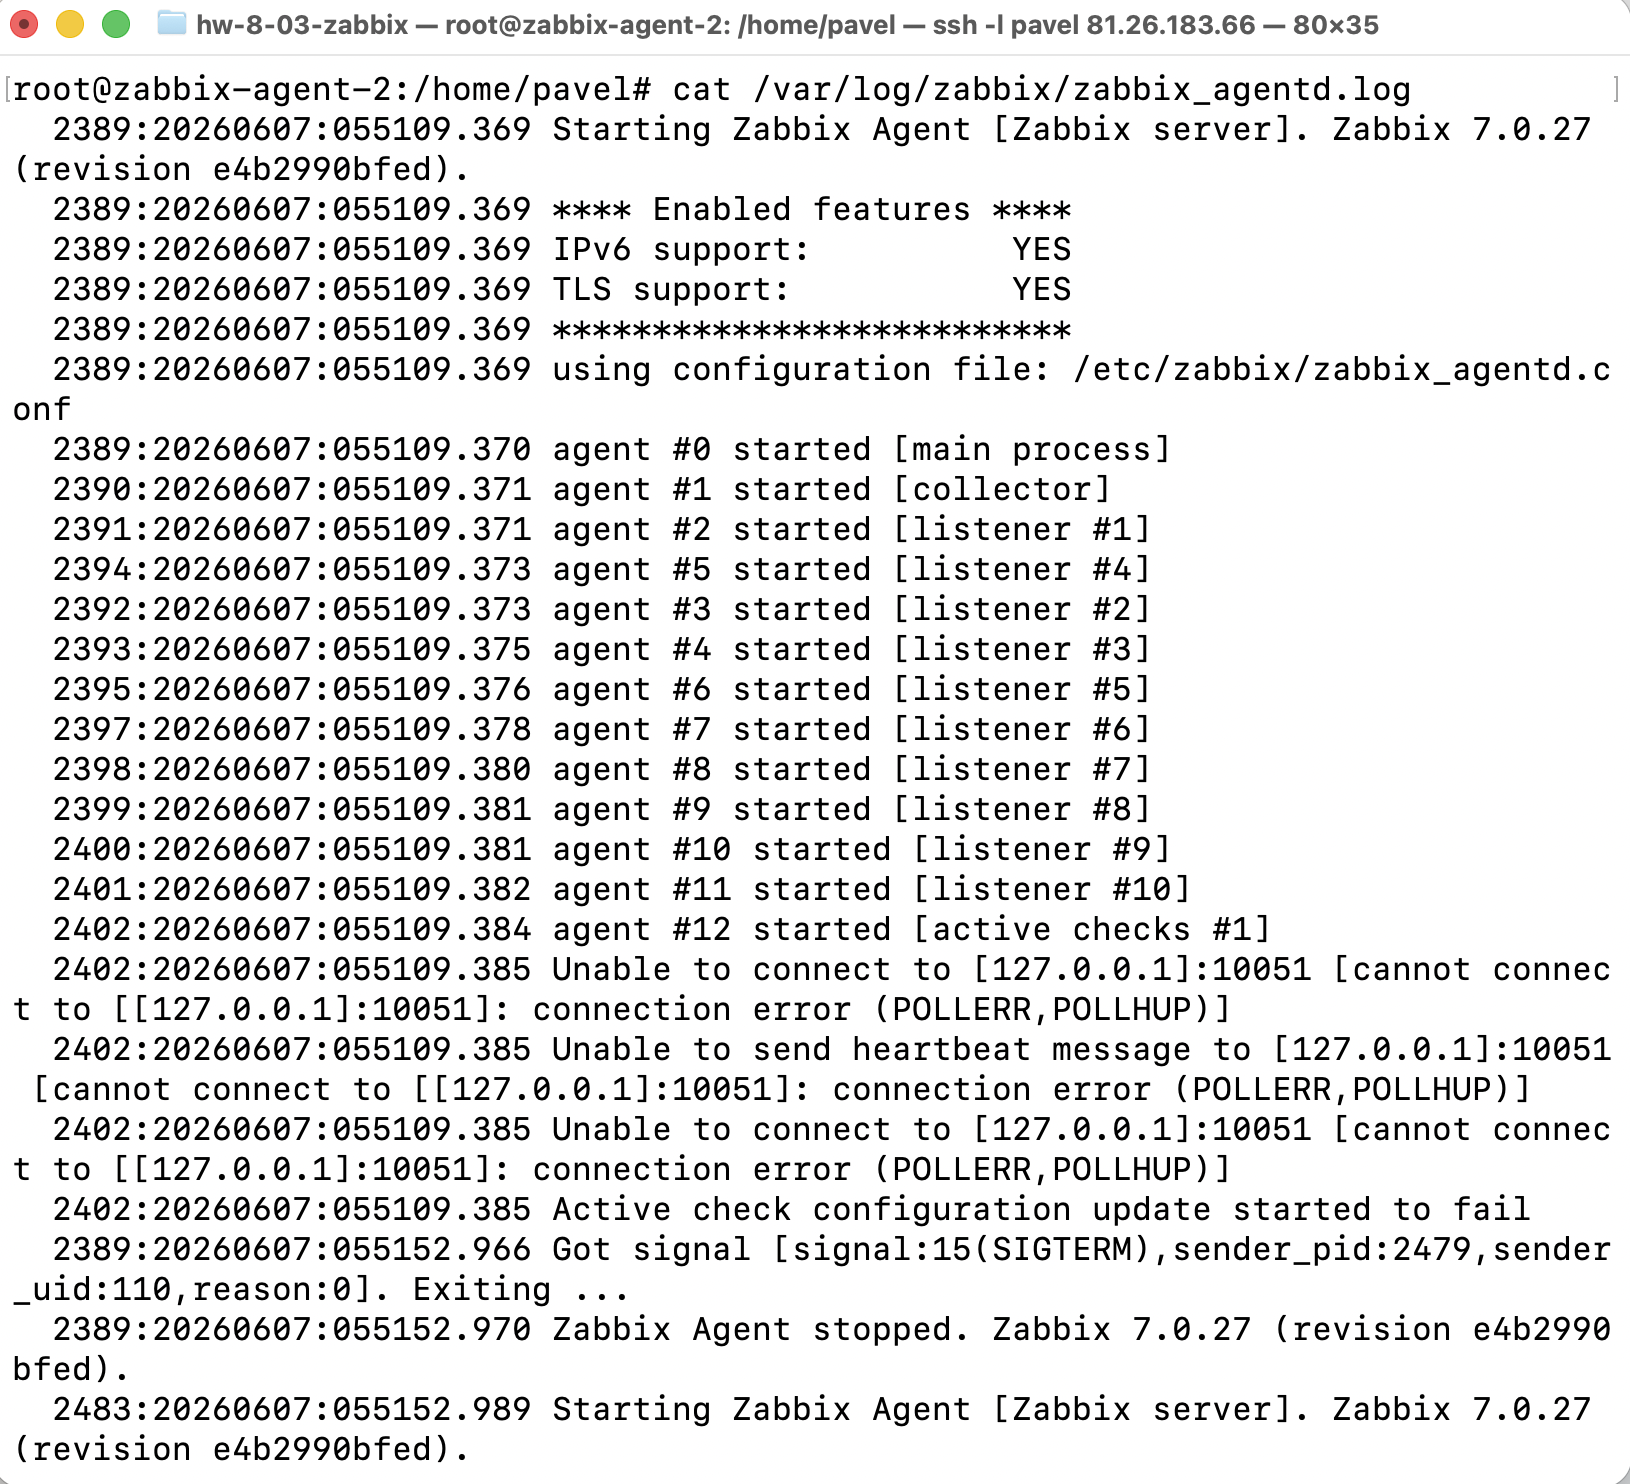
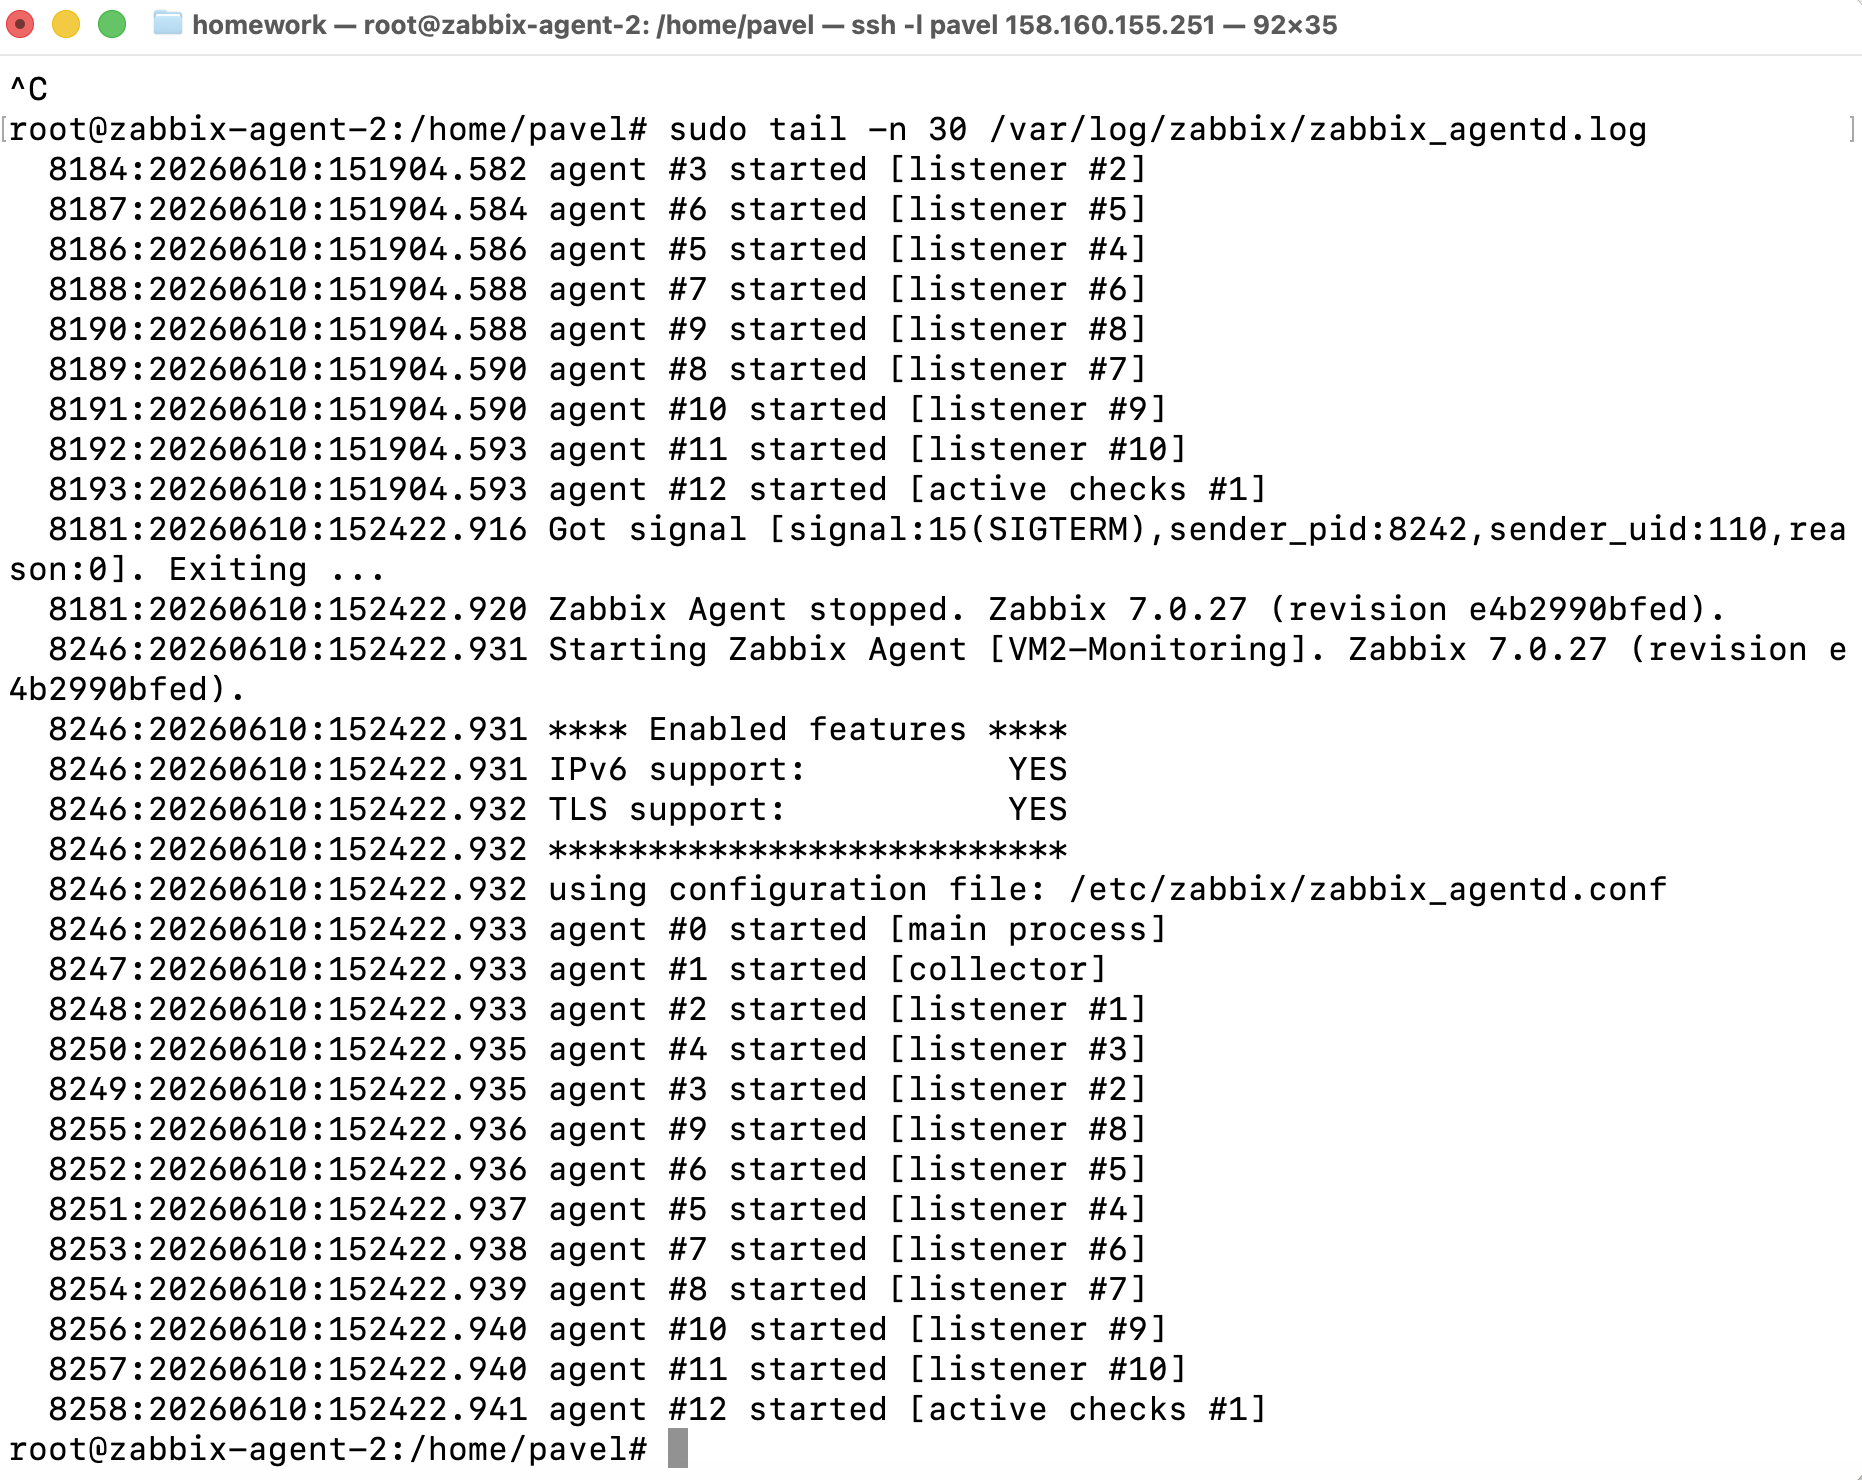
ДЗ-1 Zabbix Server + 2 Agent пофиксенный

diff --git a/hw-8-03-zabbix/README.md b/hw-8-03-zabbix/README.md
@@ -1,41 +1,53 @@
 # Домашнее задание "Система мониторинга Zabbix". Ярмощук Павел
-VM в Яндекс Облаке:
-- VM1 (Zabbix Server): Внешний IP = `81.26.184.94`, Внутренний = `10.130.0.10`
-- VM2 (Zabbix Agent): Внешний IP = `81.26.183.66`, Внутренний = `10.130.0.6`
 
-### Использованные команды (на VM1)
-sudo -s
-apt update && apt upgrade
+## Задание 1: Установите Zabbix Server с веб-интерфейсом.
+
+**Решение 1:**
+
+## Использованные команды (на VM1 - Zabbix Server, Zabbix Agent)
 apt install postgresql -y
-wget https://repo.zabbix.com/zabbix/7.0/debian/pool/main/z/zabbix-release/zabbix-release_7.0-1+debian11_all.deb
-dpkg -i zabbix-release_7.0-1+debian11_all.deb
-apt update
-apt install zabbix-server-pgsql zabbix-frontend-php php7.4-pgsql zabbix-apache-conf zabbix-sql-scripts zabbix-agent -y
-sudo -u postgres createuser zabbix
-sudo -u postgres createdb -O zabbix zabbix
-zcat /usr/share/zabbix-sql-scripts/postgresql/server.sql.gz | sudo -u zabbix psql zabbix
-systemctl restart zabbix-server zabbix-agent apache2 php7.4-fpm
-systemctl enable zabbix-server zabbix-agent apache2 php7.4-fpm
 
-### Использованные команды (на VM2)
 sudo -s
-apt update && apt upgrade
-wget https://repo.zabbix.com/zabbix/7.0/debian/pool/main/z/zabbix-release/zabbix-release_7.0-1+debian11_all.deb
-dpkg -i zabbix-release_7.0-1+debian11_all.deb
+
+wget https://repo.zabbix.com/zabbix/7.0/ubuntu/pool/main/z/zabbix-release/zabbix-release_latest_7.0+ubuntu24.04_all.deb
+dpkg -i zabbix-release_latest_7.0+ubuntu24.04_all.deb
 apt update
+
+apt install zabbix-server-pgsql zabbix-frontend-php php8.3-pgsql zabbix-apache-conf zabbix-sql-scripts zabbix-agent
+
+sudo -u postgres createuser --pwprompt zabbix
+sudo -u postgres createdb -O zabbix zabbix
+
+zcat /usr/share/zabbix-sql-scripts/postgresql/server.sql.gz | sudo -u zabbix psql zabbix
+
+systemctl restart zabbix-server zabbix-agent apache2
+systemctl enable zabbix-server zabbix-agent apache2
+
+### Скрины к заданию 1
+![авторизация](img/снимок-1.png)
+
+## Задание 2: Установите Zabbix Agent на два хоста.
+
+**Решение 2:**
+
+## Использованные команды (на VM2: Zabbix Agent)
+sudo -s
+
+wget https://repo.zabbix.com/zabbix/7.0/ubuntu/pool/main/z/zabbix-release/zabbix-release_latest_7.0+ubuntu24.04_all.deb
+dpkg -i zabbix-release_latest_7.0+ubuntu24.04_all.deb
+apt update
+
 apt install zabbix-agent
+
 nano /etc/zabbix/zabbix_agentd.conf
-# Server=10.130.0.10
-# ServerActive=10.130.0.10
+*Server=10.130.0.10*
+*ServerActive=10.130.0.10*
+
 systemctl restart zabbix-agent
 systemctl enable zabbix-agent
-systemctl status zabbix-agent
-journalctl -u zabbix-agent -n 20
 
-### Скрины к заданию
-![авторизация](img/снимок-1.png)
+### Скрины к заданию 2
 ![хосты](img/снимок-2.png)
 ![логи](img/снимок-3.png)
-![логи](img/снимок-4.png)
-![ЛД ВМ1](img/снимок-5.png)
-![ЛД ВМ2](img/снимок-6.png)
+![ЛД ВМ1](img/снимок-4.png)
+![ЛД ВМ2](img/снимок-5.png)
